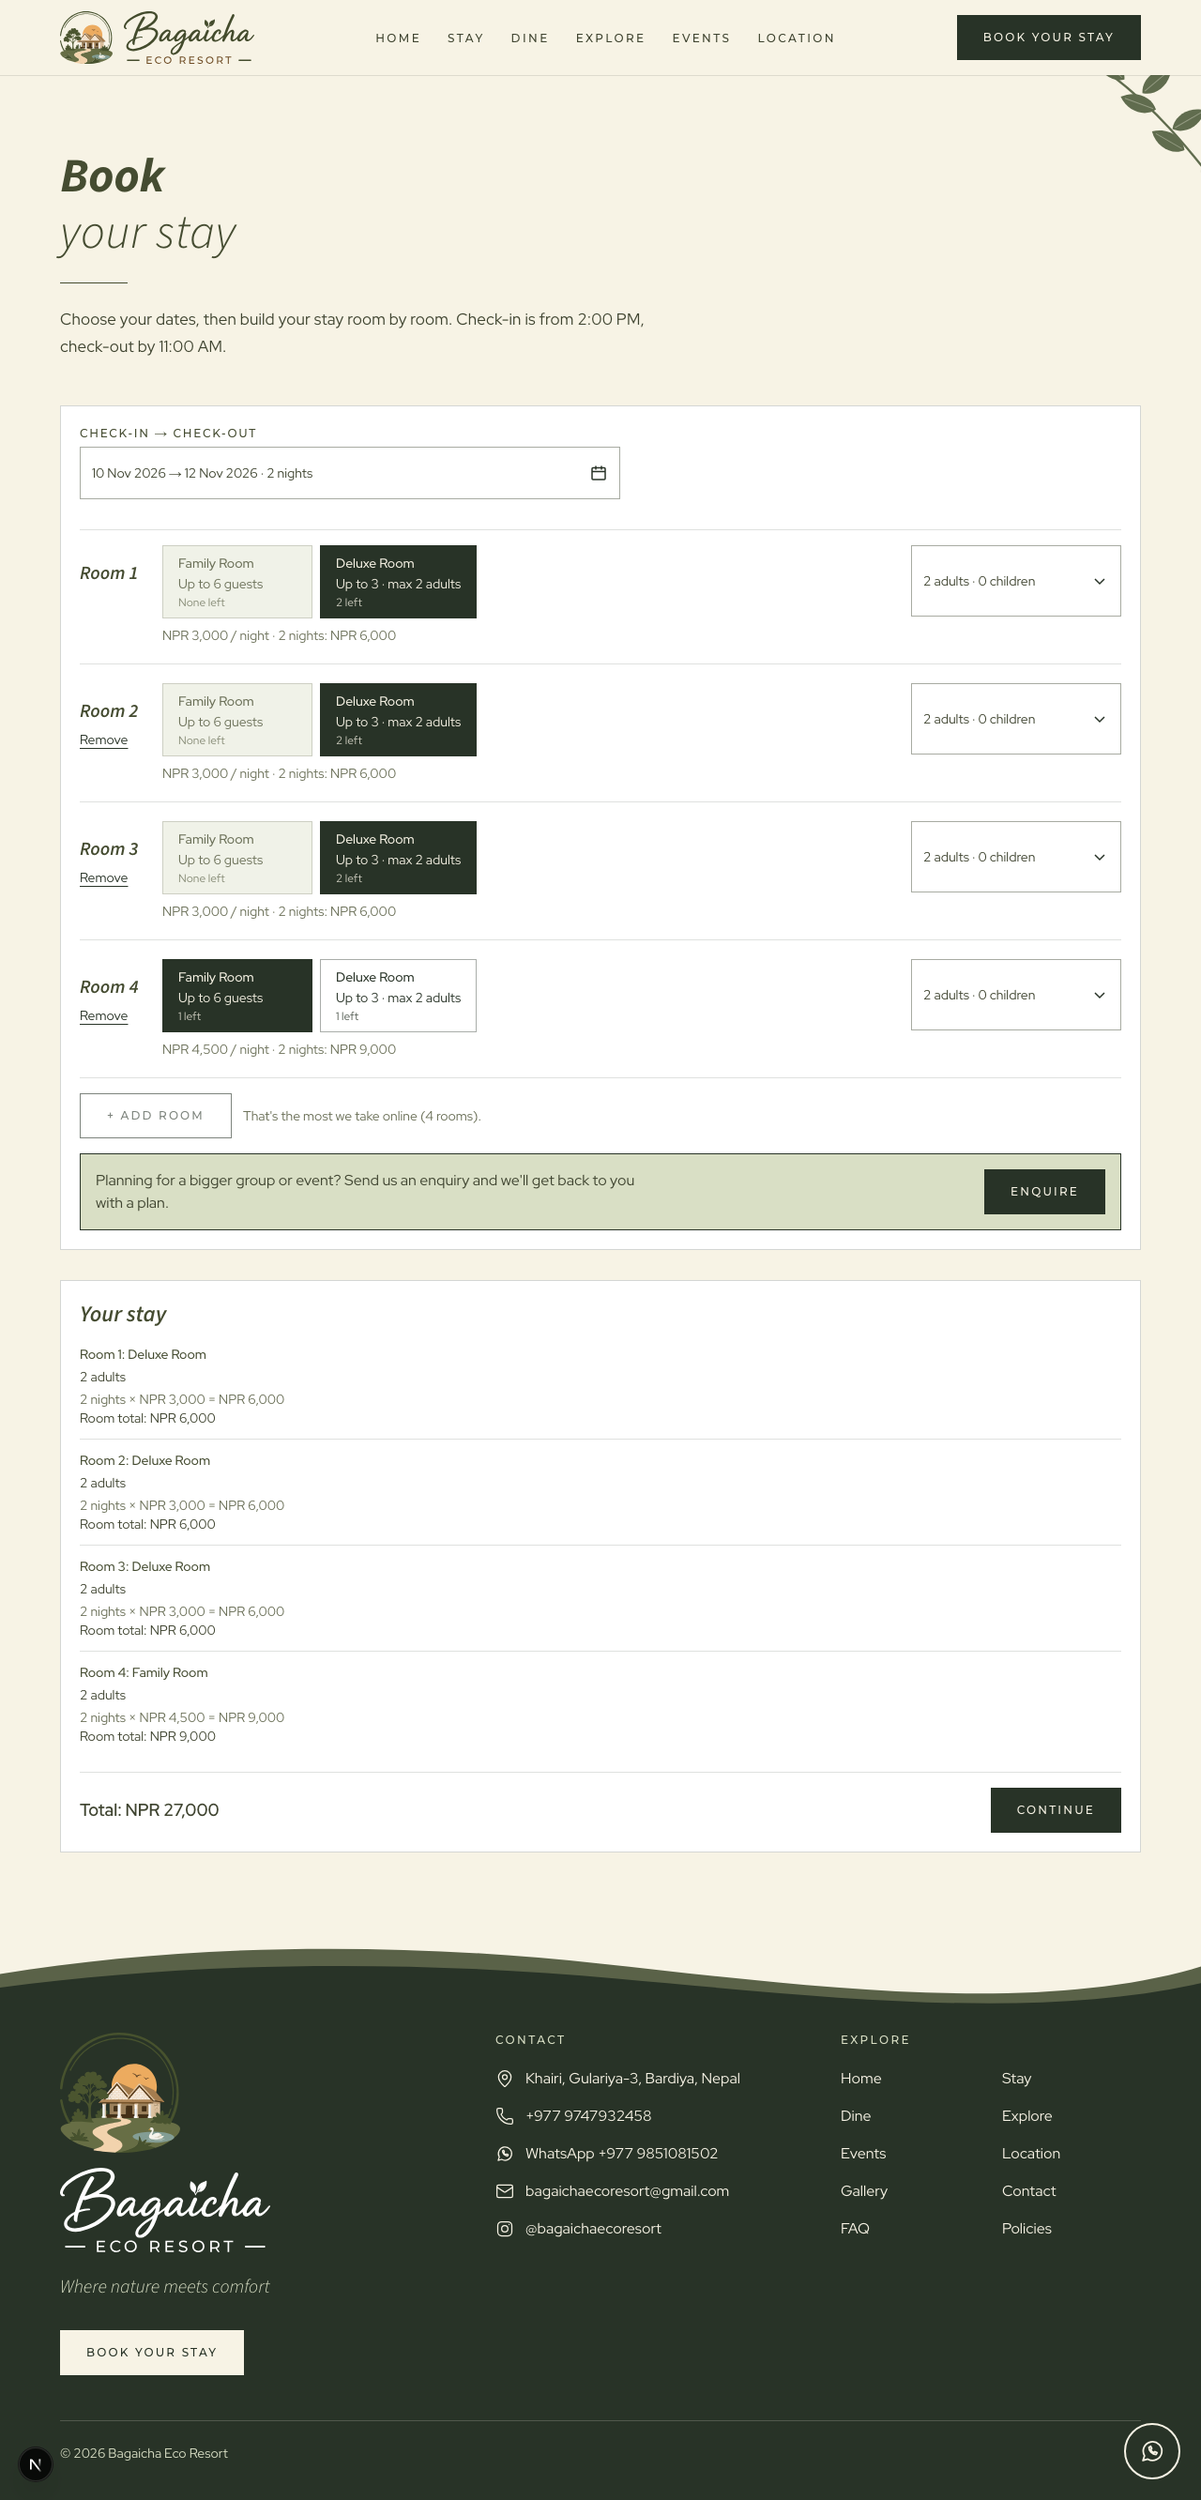
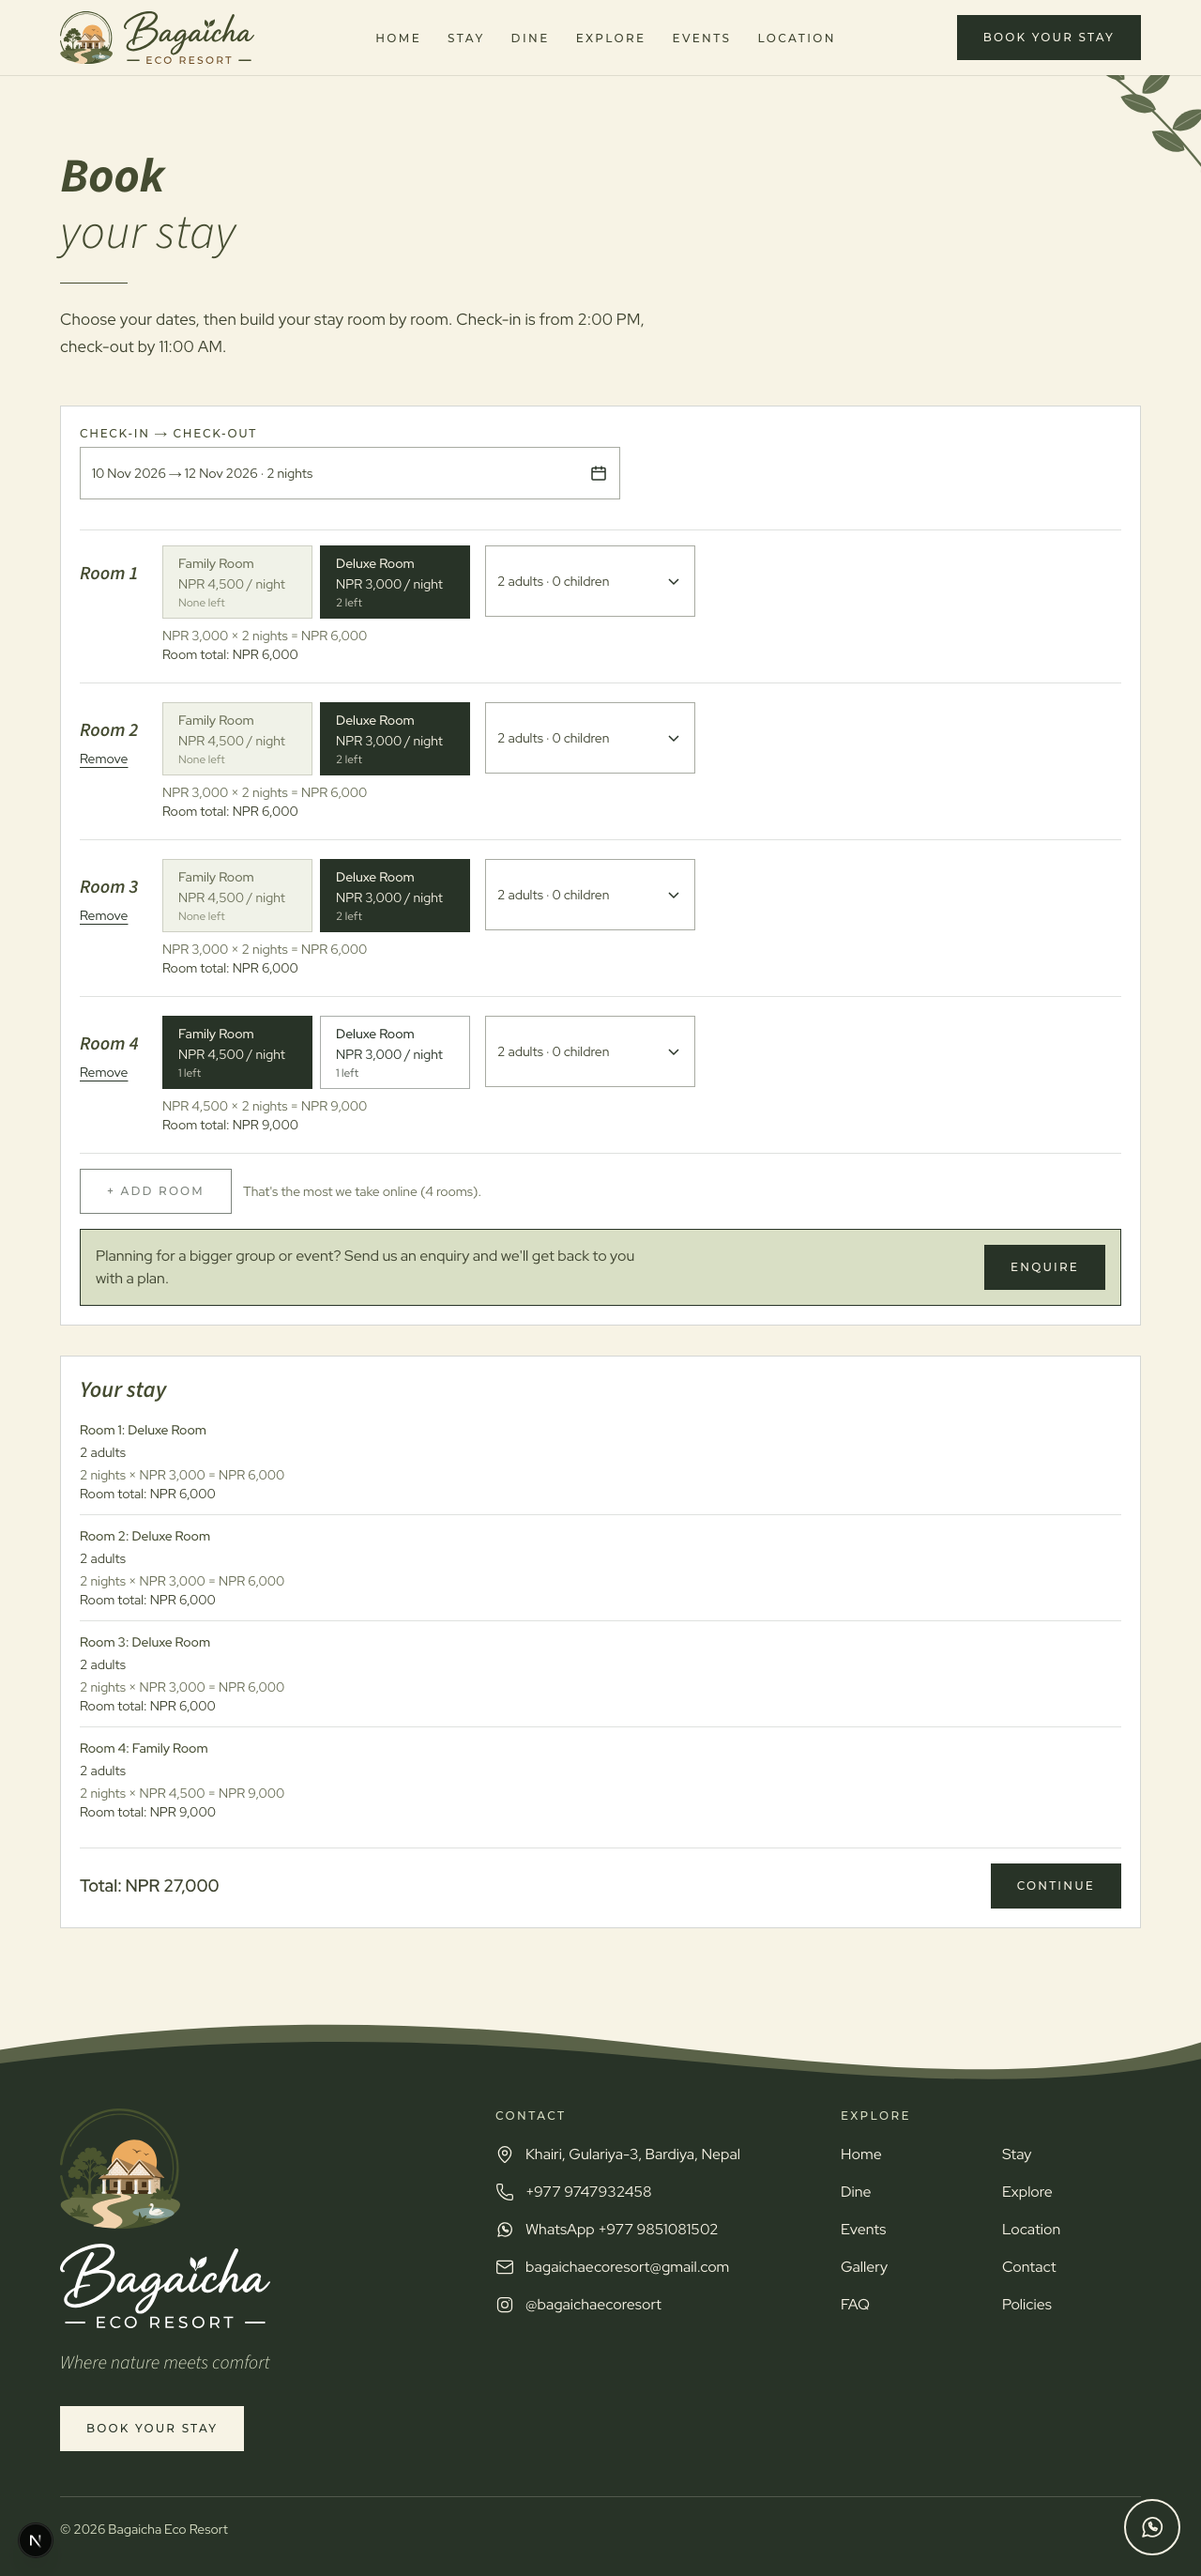
/book: rate on the type buttons, calculation under the selected type, capacity in the guests sheet, guests field beside the buttons

diff --git a/src/components/booking/room-row.tsx b/src/components/booking/room-row.tsx
@@ -1,8 +1,7 @@
 "use client";
 
 import { RoomGuestsField } from "@/components/booking/room-guests-field";
-import { describeCapacityCompact } from "@/lib/booking/capacity";
-import { quoteRooms, typeOption, type BuilderRoom, type BuilderType, type StayFree } from "@/lib/booking/room-builder";
+import { calculationLines, quoteRooms, typeOption, type BuilderRoom, type BuilderType, type StayFree } from "@/lib/booking/room-builder";
 import { formatNpr } from "@/lib/money";
 
 type Props = {
@@ -23,12 +22,12 @@ export function RoomRow({ index, rooms, types, free, nights, childUnderAge, onCh
   const room = rooms[index];
   const chosen = types.find((t) => t.slug === room.slug);
   const number = index + 1;
-  const total = chosen && nights > 0 ? quoteRooms([room], new Map([[chosen.slug, chosen]]), nights).totalPriceNpr : null;
+  const quote = chosen && nights > 0 ? quoteRooms([room], new Map([[chosen.slug, chosen]]), nights).lines[0]?.quote : undefined;
 
   return (
     <li className="py-5 first:pt-4">
-      <div className="grid gap-x-4 gap-y-3 lg:grid-cols-[4.5rem_minmax(0,1fr)_14rem] lg:items-start">
-        <div className="flex items-center justify-between gap-3 lg:flex-col lg:items-start lg:justify-start lg:gap-0 lg:pt-4">
+      <div className="grid gap-3 lg:flex lg:items-start lg:gap-4">
+        <div className="flex items-center justify-between gap-3 lg:flex-col lg:items-start lg:justify-start lg:gap-0 lg:w-[4.5rem] lg:shrink-0 lg:pt-4">
           <h3 className="font-display text-xl font-semibold italic text-ink-heading">Room {number}</h3>
           {onRemove && (
             <button type="button" onClick={onRemove} className="min-h-11 text-sm text-forest underline underline-offset-4 lg:min-h-8" aria-label={`Remove room ${number}`}>
@@ -37,7 +36,7 @@ export function RoomRow({ index, rooms, types, free, nights, childUnderAge, onCh
           )}
         </div>
 
-        <fieldset>
+        <fieldset className="lg:min-w-0">
           <legend className="sr-only">Room type for room {number}</legend>
           {/* Wraps on desktop; on phones one scrolling line, so any number of types fits. */}
           <div className="-m-1 flex gap-2 overflow-x-auto p-1 sm:flex-wrap sm:overflow-visible">
@@ -65,26 +64,33 @@ export function RoomRow({ index, rooms, types, free, nights, childUnderAge, onCh
                     }
                   >
                     <span className="font-medium">{type.name}</span>
-                    <span>{describeCapacityCompact(type)}</span>
+                    <span>{formatNpr(type.basePriceNpr)} / night</span>
                     {status && <span className="text-xs opacity-80">{status}</span>}
                   </span>
                 </label>
               );
             })}
           </div>
-          <p className="mt-2 min-h-5 text-sm text-ink-muted">
-            {chosen ? `${formatNpr(chosen.basePriceNpr)} / night${total !== null ? ` · ${nights} ${nights === 1 ? "night" : "nights"}: ${formatNpr(total)}` : ""}` : ""}
-          </p>
+          <div className="mt-2 min-h-5 text-sm text-ink-muted">
+            {chosen &&
+              (quote ? calculationLines(quote, formatNpr) : [`${formatNpr(chosen.basePriceNpr)} / night`]).map((line) => (
+                <p key={line} className={line.startsWith("Room total") ? "text-ink" : undefined}>
+                  {line}
+                </p>
+              ))}
+          </div>
         </fieldset>
 
-        <RoomGuestsField
-          roomNumber={number}
-          party={{ adults: room.adults, children: room.children }}
-          onChange={(party) => onChange({ ...room, ...party })}
-          caps={chosen ? [chosen] : types}
-          typeName={chosen?.name}
-          childUnderAge={childUnderAge}
-        />
+        <div className="lg:w-56 lg:shrink-0">
+          <RoomGuestsField
+            roomNumber={number}
+            party={{ adults: room.adults, children: room.children }}
+            onChange={(party) => onChange({ ...room, ...party })}
+            caps={chosen ? [chosen] : types}
+            typeName={chosen?.name}
+            childUnderAge={childUnderAge}
+          />
+        </div>
       </div>
     </li>
   );

diff --git a/src/components/booking/room-guests-field.tsx b/src/components/booking/room-guests-field.tsx
@@ -4,8 +4,9 @@ import { useId, useRef, useState } from "react";
 import { Button } from "@/components/ui/button";
 import { Stepper } from "@/components/booking/stepper";
 import { PopoverSheet, triggerClasses, useIsWide } from "@/components/booking/popover-sheet";
-import type { Capacity, Party } from "@/lib/booking/capacity";
-import { childAgeRange, guestLimits, guestNote, guestsSummary, stepGuests } from "@/lib/booking/room-builder";
+import type { Party } from "@/lib/booking/capacity";
+import { describeCapacityCompact, type Capacity } from "@/lib/booking/capacity";
+import { childAgeRange, guestLimits, guestNote, guestsSummary, largestCapacity, stepGuests } from "@/lib/booking/room-builder";
 
 type Props = {
   roomNumber: number;
@@ -29,6 +30,7 @@ export function RoomGuestsField({ roomNumber, party, onChange, caps, typeName, c
   const labelId = `${id}-label`;
   const limits = guestLimits(party, caps);
   const note = guestNote(party, caps, typeName);
+  const capacity = describeCapacityCompact(largestCapacity(caps));
 
   const close = (returnFocus = true) => {
     setOpen(false);
@@ -69,9 +71,12 @@ export function RoomGuestsField({ roomNumber, party, onChange, caps, typeName, c
         sheet="bottom"
         desktopClassName="left-0 w-80 max-w-[calc(100vw-2rem)]"
         footer={
-          <Button type="button" variant="brand" size="lg" className="w-full" onClick={() => close()}>
-            Done
-          </Button>
+          <div className="flex items-center justify-between gap-4">
+            <p className="text-sm text-ink-muted">{capacity}</p>
+            <Button type="button" variant="brand" size="lg" onClick={() => close()}>
+              Done
+            </Button>
+          </div>
         }
       >
         <div className="divide-y divide-forest/15">
@@ -89,7 +94,8 @@ export function RoomGuestsField({ roomNumber, party, onChange, caps, typeName, c
           {note}
         </p>
         {wide && (
-          <div className="mt-4 flex justify-end">
+          <div className="mt-4 flex items-center justify-between gap-4">
+            <p className="text-sm text-ink-muted">{capacity}</p>
             <Button type="button" variant="secondary" size="md" onClick={() => close()}>
               Done
             </Button>

diff --git a/src/lib/booking/room-builder.test.ts b/src/lib/booking/room-builder.test.ts
@@ -1,11 +1,13 @@
 import { describe, expect, it } from "vitest";
 import {
+  calculationLines,
   checkRooms,
   childAgeRange,
   fitReason,
   guestLimits,
   guestNote,
   guestsSummary,
+  largestCapacity,
   quoteRooms,
   startingParty,
   stepGuests,
@@ -129,5 +131,22 @@ describe("pricing", () => {
     expect(q.lines[1]?.quote.totalPriceNpr).toBe(2 * 4500);
     expect(q.lines[2]).toBeNull();
     expect(q.totalPriceNpr).toBe(7000 + 9000);
+  });
+});
+
+describe("the room calculation", () => {
+  const fmt = (n: number) => `NPR ${n.toLocaleString("en-US")}`;
+  it("shows rate × nights, a child line when there are children, then the room total", () => {
+    const withChild = quoteRooms([room("fam", 2, 1)], types, 2).lines[0]!.quote;
+    expect(calculationLines(withChild, fmt)).toEqual(["NPR 4,500 × 2 nights = NPR 9,000", "NPR 500 × 1 child × 2 nights = NPR 1,000", "Room total: NPR 10,000"]);
+    const none = quoteRooms([room("dlx")], types, 1).lines[0]!.quote;
+    expect(calculationLines(none, fmt)).toEqual(["NPR 3,000 × 1 night = NPR 3,000", "Room total: NPR 3,000"]);
+  });
+});
+
+describe("largest limits", () => {
+  it("takes the most on each limit across types", () => {
+    expect(largestCapacity([deluxe, family])).toEqual({ maxGuests: 6, maxAdults: 6, maxChildren: null });
+    expect(largestCapacity([type("a", 4, 2, 1, 1), type("b", 3, 3, 1, 2)])).toEqual({ maxGuests: 4, maxAdults: 3, maxChildren: 2 });
   });
 });

diff --git a/src/lib/booking/room-builder.ts b/src/lib/booking/room-builder.ts
@@ -146,3 +146,23 @@ export function quoteRooms(rooms: BuilderRoom[], types: ReadonlyMap<string, Buil
   });
   return { lines, totalPriceNpr: lines.reduce((n, l) => n + (l?.quote.totalPriceNpr ?? 0), 0) };
 }
+
+/** The most any room allows on each limit, for a room with no type chosen yet. */
+export function largestCapacity(caps: Capacity[]): Capacity {
+  return {
+    maxGuests: Math.max(...caps.map((c) => c.maxGuests)),
+    maxAdults: Math.max(...caps.map((c) => c.maxAdults)),
+    maxChildren: caps.some((c) => c.maxChildren === null) ? null : Math.max(...caps.map((c) => c.maxChildren ?? 0)),
+  };
+}
+
+/** The calculation shown under a chosen type: "NPR 4,500 × 2 nights = NPR 9,000", a child line, then the room total. */
+export function calculationLines(quote: Quote, formatMoney: (npr: number) => string): string[] {
+  const nights = plural(quote.nights, "night", "nights");
+  const lines = [`${formatMoney(quote.pricePerNightNpr)} × ${nights} = ${formatMoney(quote.roomSubtotalNpr)}`];
+  if (quote.children > 0 && quote.childPricePerNightNpr > 0) {
+    lines.push(`${formatMoney(quote.childPricePerNightNpr)} × ${plural(quote.children, "child", "children")} × ${nights} = ${formatMoney(quote.childSubtotalNpr)}`);
+  }
+  lines.push(`Room total: ${formatMoney(quote.totalPriceNpr)}`);
+  return lines;
+}
